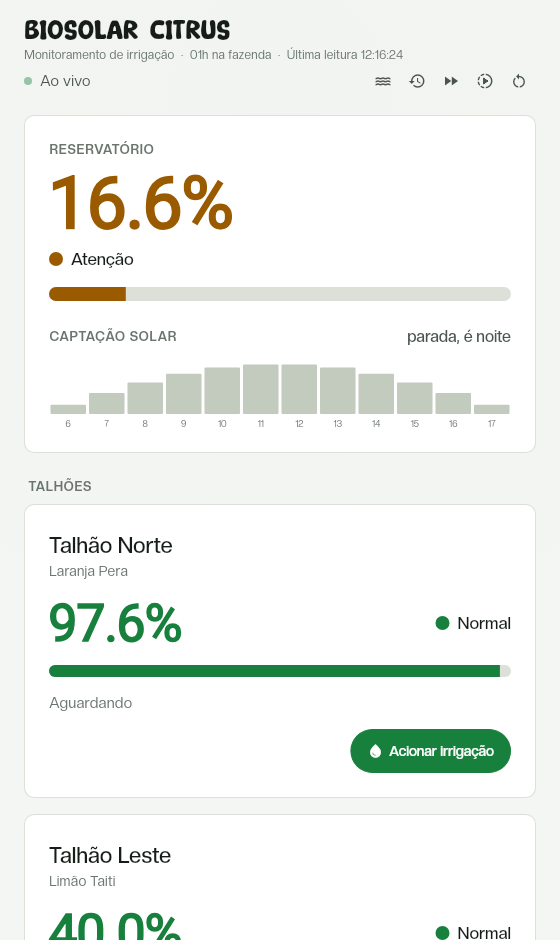
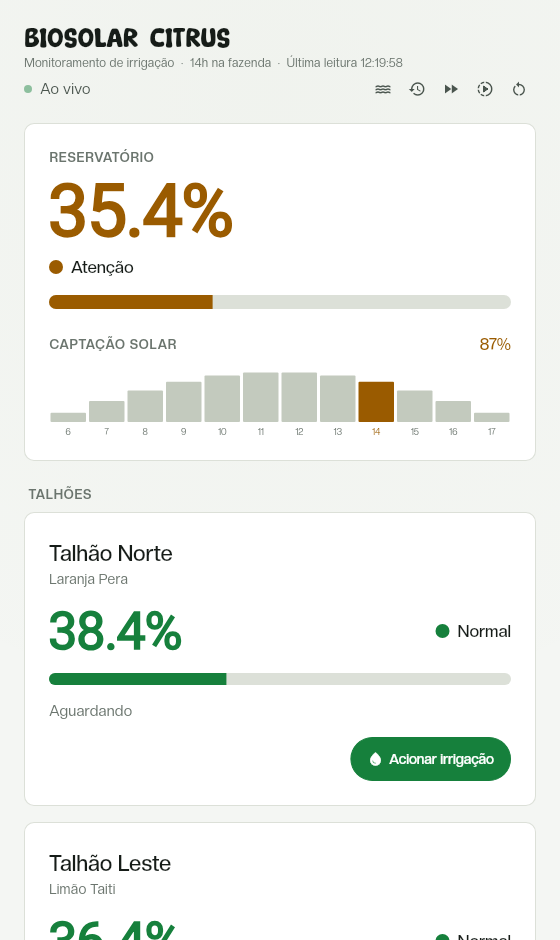
feat(app): mascara de desvanecimento no topo da area rolavel
O conteudo cortava em linha reta ao sair pela borda superior. Agora ele
desaparece em um degrade de Espaco.g, a partir da cor de fundo do tema, entao
acompanha o tema atual sem cor solta.

ShaderMask com BlendMode.dstIn usa apenas o alfa do degrade, entao nao ha
desfoque nem custo por quadro durante a rolagem. A parada do degrade e calculada
sobre a altura real da area, e nao em fracao fixa, para o efeito ter os mesmos
pixels em qualquer tela.

O respiro superior da lista subiu de Espaco.m para Espaco.g, igualando a altura
do degrade: com a lista no topo, ele cai inteiro sobre espaco vazio e nao
esconde nada, o que foi conferido nas quatro larguras.

Conferido em 375, 480, 820 e 1200, no topo e rolado, e o rotulo do botao de
acionamento continua inteiro em todas.

diff --git a/app/lib/funcionalidades/monitoramento/apresentacao/tela_monitoramento.dart b/app/lib/funcionalidades/monitoramento/apresentacao/tela_monitoramento.dart
@@ -120,80 +120,107 @@ class _Painel extends StatelessWidget {
                           constraints: const BoxConstraints(
                             maxWidth: _larguraMaxima,
                           ),
-                          child: ListView(
-                            padding: EdgeInsets.fromLTRB(
-                              celular ? Espaco.m : Espaco.g,
-                              Espaco.m,
-                              celular ? Espaco.m : Espaco.g,
-                              Espaco.xg,
-                            ),
-                            children: [
-                              _Topo(
-                                celular: celular,
-                                telemetria: telemetria,
-                                desconectado: desconectado,
-                                emTempoReal: emTempoReal,
-                                aoAbrirHistorico: () => Navigator.of(
-                                  context,
-                                ).pushNamed(TelaEventos.rota),
-                                aoAcelerar: () => comandos.add(
-                                  const VelocidadeSolicitada(acelerada: true),
-                                ),
-                                aoNormalizar: () => comandos.add(
-                                  const VelocidadeSolicitada(acelerada: false),
-                                ),
-                                aoReiniciar: () =>
-                                    comandos.add(const ReinicioSolicitado()),
-                                chovendo: telemetria.chovendo,
-                                aoAlternarChuva: () => comandos.add(
-                                  ChuvaSolicitada(
-                                    chovendo: !telemetria.chovendo,
-                                  ),
-                                ),
+                          // Máscara de desvanecimento no topo da área rolável: o conteúdo
+                          // some por baixo da borda em vez de cortar em linha reta.
+                          // BlendMode.dstIn usa só o alfa do degradê, então isto não é
+                          // desfoque e não custa nada durante a rolagem.
+                          //
+                          // O degradê tem a altura do respiro superior da lista, então com a
+                          // lista no topo ele cai sobre espaço vazio e não esconde nada.
+                          child: ShaderMask(
+                            blendMode: BlendMode.dstIn,
+                            shaderCallback: (area) => LinearGradient(
+                              begin: Alignment.topCenter,
+                              end: Alignment.bottomCenter,
+                              colors: [
+                                Cores.fundo.withValues(alpha: 0),
+                                Cores.fundo,
+                              ],
+                              stops: [
+                                0,
+                                (Espaco.g / area.height).clamp(0.0, 1.0),
+                              ],
+                            ).createShader(area),
+                            child: ListView(
+                              padding: EdgeInsets.fromLTRB(
+                                celular ? Espaco.m : Espaco.g,
+                                Espaco.g,
+                                celular ? Espaco.m : Espaco.g,
+                                Espaco.xg,
                               ),
-                              const SizedBox(height: Espaco.g),
-
-                              // Sem contato, o bloqueio que a tela mostra é
-                              // informação velha: o aviso de defasagem vence e o de
-                              // bloqueio sai.
-                              if (desconectado)
-                                _FaixaDefasagem(
-                                  'Defasado desde ${_hora(telemetria.hora)}. '
-                                  'Reconectando.',
-                                )
-                              else if (bloqueado)
-                                _FaixaBloqueio(
-                                  aoTentar: () => comandos.add(
-                                    AcionamentoSolicitado(
-                                      telemetria.bombas.first.id,
-                                      ligar: true,
+                              children: [
+                                _Topo(
+                                  celular: celular,
+                                  telemetria: telemetria,
+                                  desconectado: desconectado,
+                                  emTempoReal: emTempoReal,
+                                  aoAbrirHistorico: () => Navigator.of(
+                                    context,
+                                  ).pushNamed(TelaEventos.rota),
+                                  aoAcelerar: () => comandos.add(
+                                    const VelocidadeSolicitada(acelerada: true),
+                                  ),
+                                  aoNormalizar: () => comandos.add(
+                                    const VelocidadeSolicitada(
+                                      acelerada: false,
+                                    ),
+                                  ),
+                                  aoReiniciar: () =>
+                                      comandos.add(const ReinicioSolicitado()),
+                                  chovendo: telemetria.chovendo,
+                                  aoAlternarChuva: () => comandos.add(
+                                    ChuvaSolicitada(
+                                      chovendo: !telemetria.chovendo,
                                     ),
                                   ),
                                 ),
+                                const SizedBox(height: Espaco.g),
 
-                              _CartaoReservatorio(
-                                telemetria: telemetria,
-                                celular: celular,
-                              ),
-                              SizedBox(height: celular ? Espaco.m : Espaco.g),
-                              Padding(
-                                padding: const EdgeInsets.only(
-                                  left: Espaco.xs,
-                                  bottom: Espaco.p,
+                                // Sem contato, o bloqueio que a tela mostra é
+                                // informação velha: o aviso de defasagem vence e o de
+                                // bloqueio sai.
+                                if (desconectado)
+                                  _FaixaDefasagem(
+                                    'Defasado desde ${_hora(telemetria.hora)}. '
+                                    'Reconectando.',
+                                  )
+                                else if (bloqueado)
+                                  _FaixaBloqueio(
+                                    aoTentar: () => comandos.add(
+                                      AcionamentoSolicitado(
+                                        telemetria.bombas.first.id,
+                                        ligar: true,
+                                      ),
+                                    ),
+                                  ),
+
+                                _CartaoReservatorio(
+                                  telemetria: telemetria,
+                                  celular: celular,
                                 ),
-                                child: Text('TALHÕES', style: Fontes.secao()),
-                              ),
-                              _ListaTalhoes(
-                                celular: celular,
-                                telemetria: telemetria,
-                                // RF11. O servidor recusa de qualquer jeito (RN08);
-                                // travar aqui é conveniência, não segurança.
-                                travado: bloqueado || desconectado,
-                                aoAlternar: (bomba, ligar) => comandos.add(
-                                  AcionamentoSolicitado(bomba.id, ligar: ligar),
+                                SizedBox(height: celular ? Espaco.m : Espaco.g),
+                                Padding(
+                                  padding: const EdgeInsets.only(
+                                    left: Espaco.xs,
+                                    bottom: Espaco.p,
+                                  ),
+                                  child: Text('TALHÕES', style: Fontes.secao()),
                                 ),
-                              ),
-                            ],
+                                _ListaTalhoes(
+                                  celular: celular,
+                                  telemetria: telemetria,
+                                  // RF11. O servidor recusa de qualquer jeito (RN08);
+                                  // travar aqui é conveniência, não segurança.
+                                  travado: bloqueado || desconectado,
+                                  aoAlternar: (bomba, ligar) => comandos.add(
+                                    AcionamentoSolicitado(
+                                      bomba.id,
+                                      ligar: ligar,
+                                    ),
+                                  ),
+                                ),
+                              ],
+                            ),
                           ),
                         ),
                       );
